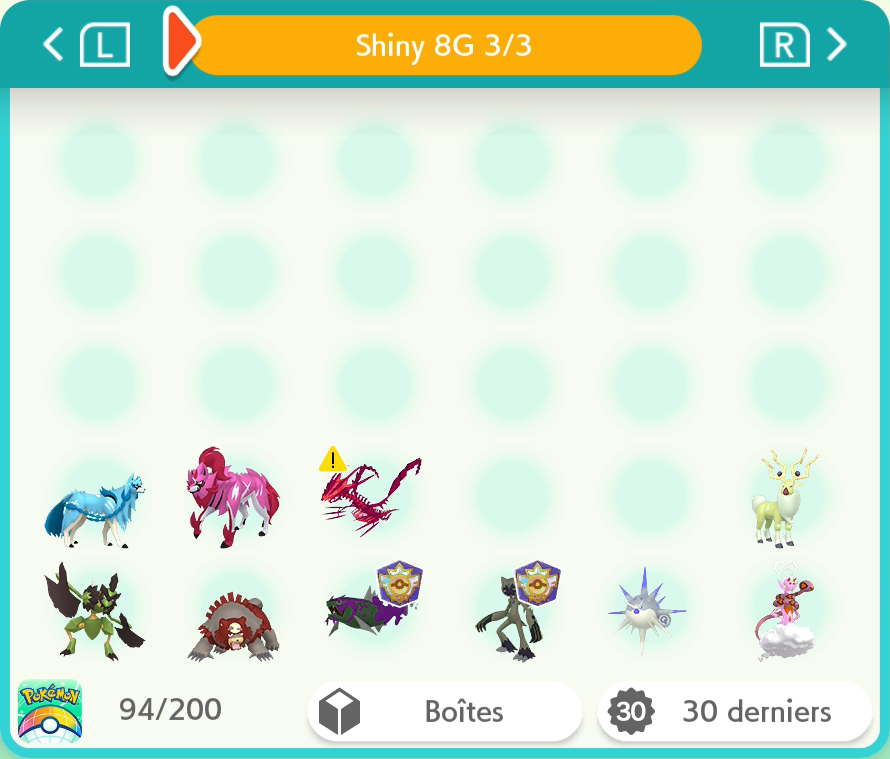
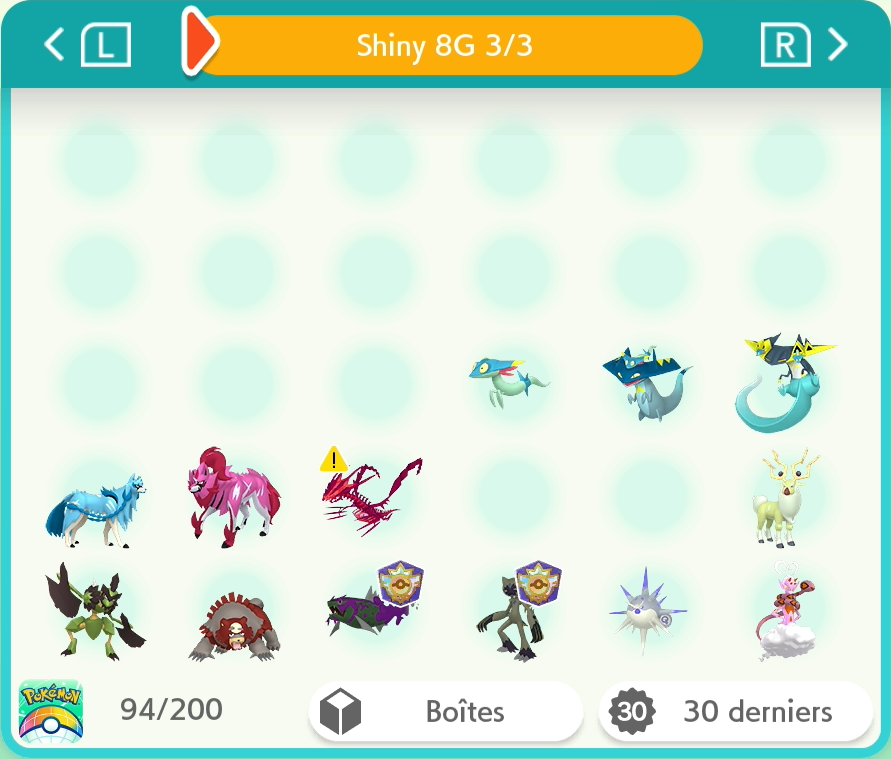
8G : Fantyrm, Dispareptil & Lanssorien | Forme de Paldea : Tauros Aquatique

diff --git a/README.md b/README.md
@@ -3,7 +3,7 @@
 Pokémon-Elément-Sh -> <a href="https://www.pokemon-element-sh.fr/profil/karyno21" target="_blank">Karyno21</a>
 
 ↓ Dernière Update le 27/05/2026 à 21h06 ↓
-### Dex National [243/999] +7
+### Dex National [246/999] +10
 
 | Gen | Prog | Notes |
 |:--:|:--:|---|
@@ -14,17 +14,17 @@ Pokémon-Elément-Sh -> <a href="https://www.pokemon-element-sh.fr/profil/karyno
 |5G|26/154||
 |6G|21/70||
 |7G|16/84|J'ai deux Meltan Shiny mais impossible de le faire évolué en Melmétal... (pas compté)|
-|8G|24/90|+2 Distrib Zacian & Éthernatos|
+|8G|27/90|+5 Distrib Zacian & Éthernatos, Fantyrm, Dispareptil & Lanssorien|
 |9G|43/108|+1 Terraiste|
 
-### Formes Régionales [34/58] +15
+### Formes Régionales [35/58] +16
 
 | Forme | Prog | Notes |
 |:--:|:--:|---|
 |Alola|12/18|+11 Familles de Rattata / Goupix / Racaillou / Sabelette, Raichu & Noadkoko|
 |Galar|6/19|+6 Famille de Ramoloss & Distrib des oiseaux légendaire de Galar|
 |Hisui|17/17|Complété|
-|Paldea|2/4|+1 Axoloto|
+|Paldea|3/4|+2 Axoloto & Tauros Aquatique|
 
 ---
 
